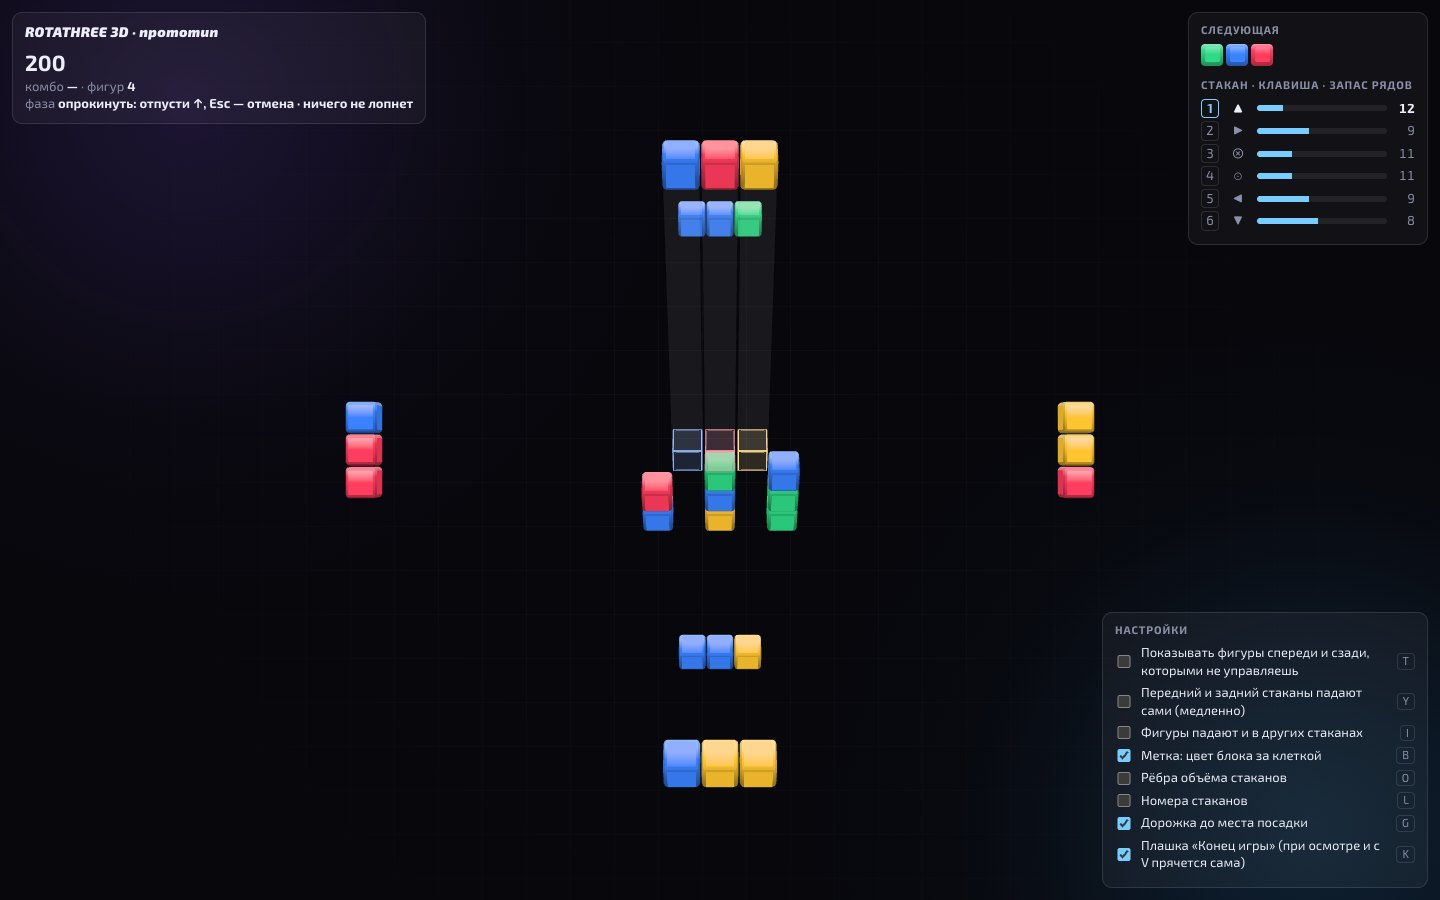
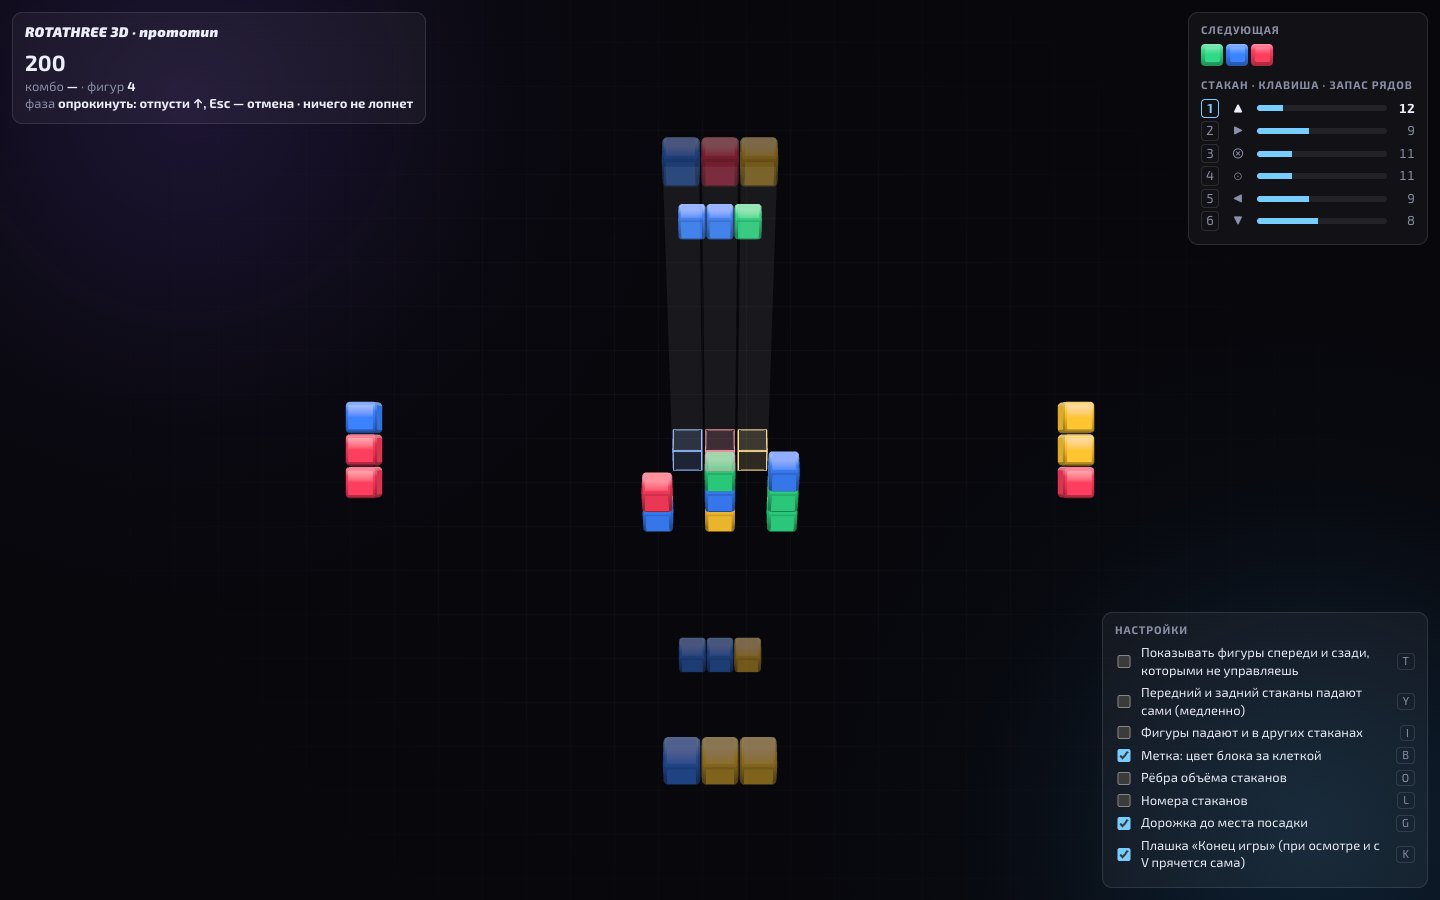
Fade sticks out of sight on a tip; keep sticks still on ← →
← and → turned the side sticks about themselves: the rule that keeps the
sticks on a tip's axis where the screen shows them also ran for turns in
the screen, laying each stick against the turn. It runs on tips only now;
on ← → every stick goes round with its glass, as in 2D.

On a tip, a stick the flat picture stops showing (the top one going in
front of the eye, the bottom one behind) fades out as the hub leans
instead of vanishing at the end, and one it starts showing fades in. The
blocks fading are drawn as see-through rounded tiles, far to near.

Changed region(s): [[0.4375, 0.1556, 0.5625, 0.28], [0.4375, 0.8089, 0.5625, 0.9022], [0.4688, 0.6844, 0.5312, 0.7467]]

diff --git a/webapp/proto3d/main.js b/webapp/proto3d/main.js
@@ -277,21 +277,23 @@ const ROUND = 0.13;
 // through the colour to dark at the bottom, around a flat face of the plain
 // colour with a soft shine across its top. Faces turned from the eye are a
 // little darker, so that the hub reads as solid while it is open.
-const solid = cubeLayer(new THREE.ShaderMaterial({
+const tileMaterial = (fading) => new THREE.ShaderMaterial({
   uniforms: sharedUniforms,
+  transparent: fading,
+  depthWrite: !fading,
   vertexShader: /* glsl */ `
     uniform vec3 screenUp;
     attribute vec3 aBase;
     attribute vec3 aLight;
     attribute vec3 aDark;
-    attribute vec2 aLook;
+    attribute vec3 aLook;
     varying vec3 vObjectNormal;
     varying vec3 vFaceNormal;
     varying float vUp;
     varying vec3 vBase;
     varying vec3 vLight;
     varying vec3 vDark;
-    varying vec2 vLook;
+    varying vec3 vLook;
     void main() {
       vBase = aBase;
       vLight = aLight;
@@ -316,7 +318,7 @@ const solid = cubeLayer(new THREE.ShaderMaterial({
     varying vec3 vBase;
     varying vec3 vLight;
     varying vec3 vDark;
-    varying vec2 vLook; // brightness, white flash
+    varying vec3 vLook; // brightness, white flash, opacity
     void main() {
       vec3 n = normalize(vObjectNormal);
       // 1 on the flat of a face, 0 on its rounded rim.
@@ -332,11 +334,16 @@ const solid = cubeLayer(new THREE.ShaderMaterial({
       vec3 colour = mix(rim, face, onFace);
       colour *= clamp(0.72 + 0.28 * toEye + 0.12 * vFaceNormal.y, 0.0, 1.0) * vLook.x;
       colour = mix(colour, vec3(1.0), vLook.y);
-      gl_FragColor = vec4(colour, 1.0);
+      gl_FragColor = vec4(colour, vLook.z);
       #include <tonemapping_fragment>
       #include <colorspace_fragment>
     }`,
-}), { aBase: 3, aLight: 3, aDark: 3, aLook: 2 }, 1, new RoundedBoxGeometry(1, 1, 1, 3, ROUND));
+});
+const TILE_ATTRIBUTES = { aBase: 3, aLight: 3, aDark: 3, aLook: 3 };
+const solid = cubeLayer(tileMaterial(false), TILE_ATTRIBUTES, 1, new RoundedBoxGeometry(1, 1, 1, 3, ROUND));
+/** Blocks fading in or out — sticks going out of sight or coming into it as
+ * the hub tips over — drawn see-through, far to near, after the others. */
+const fading = cubeLayer(tileMaterial(true), TILE_ATTRIBUTES, 2, new RoundedBoxGeometry(1, 1, 1, 3, ROUND));
 
 /** Outlines and see-through cubes: the landing spot, the aiming lane, the
  * sticks in front and behind. Far to near. */
@@ -375,8 +382,11 @@ const clear = cubeLayer(new THREE.ShaderMaterial({
  * while the picture is flat: the sticks in front of and behind the screen
  * are drawn over and under it. `nudge` shifts it on the screen, for the
  * small marks in the corners of cells. */
-function pushSolid(at, color, { brightness = 1, flash = 0, size = TILE, lift = 0, nudge = null, spin = null, frame = null } = {}) {
-  solid.items.push({ at: at.clone(), size: [size, size, size], lift, nudge, spin, frame, tone: TONES[color], brightness, flash });
+function pushSolid(at, color, { brightness = 1, flash = 0, size = TILE, lift = 0, nudge = null, spin = null, frame = null, alpha = 1 } = {}) {
+  if (alpha <= 0.01) return;
+  (alpha < 0.99 ? fading : solid).items.push({
+    at: at.clone(), size: [size, size, size], lift, nudge, spin, frame, tone: TONES[color], brightness, flash, alpha, depth: 0,
+  });
 }
 
 function pushClear(at, color, alpha, fill, edge, { size = [0.91, 0.91, 0.91], lift = 0, nudge = null, spin = null, frame = null } = {}) {
@@ -412,18 +422,25 @@ function turnOf(item) {
 }
 
 function flushLayers() {
-  solid.items.forEach((item, i) => {
-    // A size in the hub's frame: turn it the way the hub is turned.
-    scaleVector.set(...item.size);
-    matrix.compose(place(item), turnOf(item), scaleVector);
-    solid.mesh.setMatrixAt(i, matrix);
-    const { base, light, dark } = item.tone;
-    const { buffers } = solid;
-    buffers.aBase.setXYZ(i, base.r, base.g, base.b);
-    buffers.aLight.setXYZ(i, light.r, light.g, light.b);
-    buffers.aDark.setXYZ(i, dark.r, dark.g, dark.b);
-    buffers.aLook.setXY(i, item.brightness, item.flash);
-  });
+  for (const item of fading.items) {
+    place(item);
+    item.depth = item.at.distanceToSquared(camera.position);
+  }
+  fading.items.sort((a, b) => b.depth - a.depth);
+  for (const layer of [solid, fading]) {
+    layer.items.forEach((item, i) => {
+      // A size in the hub's frame: turn it the way the hub is turned.
+      scaleVector.set(...item.size);
+      matrix.compose(layer === fading ? item.at : place(item), turnOf(item), scaleVector);
+      layer.mesh.setMatrixAt(i, matrix);
+      const { base, light, dark } = item.tone;
+      const { buffers } = layer;
+      buffers.aBase.setXYZ(i, base.r, base.g, base.b);
+      buffers.aLight.setXYZ(i, light.r, light.g, light.b);
+      buffers.aDark.setXYZ(i, dark.r, dark.g, dark.b);
+      buffers.aLook.setXYZ(i, item.brightness, item.flash, item.alpha);
+    });
+  }
   for (const item of clear.items) {
     place(item);
     item.depth = item.at.distanceToSquared(camera.position);
@@ -436,7 +453,7 @@ function flushLayers() {
     clear.buffers.aColor.setXYZ(i, item.color.r, item.color.g, item.color.b);
     clear.buffers.aLook.setXYZ(i, item.alpha, item.fill, item.edge);
   });
-  for (const layer of [solid, clear]) {
+  for (const layer of [solid, fading, clear]) {
     layer.mesh.count = layer.items.length;
     layer.mesh.instanceMatrix.needsUpdate = true;
     for (const buffer of Object.values(layer.buffers)) buffer.needsUpdate = true;
@@ -483,7 +500,7 @@ const turnFrom = new THREE.Quaternion();
 const turned = new THREE.Quaternion();
 /** The turn under way: `tilt` when it leans the hub over rather than turning
  * the cross in the screen. */
-const turn = { t: 1, tilt: false, carry: false };
+const turn = { t: 1, tilt: false, carry: false, steeredFrom: 0 };
 /** 0 when the picture is the game, 1 while V is held. */
 let peek = 0;
 const SCENE_RIGHT = new THREE.Vector3(1, 0, 0);
@@ -530,6 +547,15 @@ function transition(axis, { carry = false } = {}) {
   turn.t = 0;
   turn.tilt = axis !== SCENE_TOWARD;
   turn.carry = carry && turn.tilt;
+  turn.steeredFrom = preview?.result?.view.active ?? game.active;
+}
+
+/** Whether the flat picture shows the stick of `side` with the hub turned
+ * by `q` and `steered` the glass steered: always for a glass across the
+ * screen; in front or behind only when steered, or asked for, or paused. */
+function shownFlat(side, q, steered) {
+  const across = Math.abs(new THREE.Vector3(...normalOf(side)).applyQuaternion(q).z) < 0.5;
+  return across || side === steered || options.depthSticks || options.paused;
 }
 
 /** Where the turn under way ends. */
@@ -620,8 +646,9 @@ function commitPreview(code) {
 
 function cancelPreview() {
   if (!preview) return;
-  preview = null;
+  // From the preview's side, where its top glass was the one steered.
   transition(SCENE_RIGHT, { carry: true });
+  preview = null;
 }
 
 /** A number key: a glass around the cross is turned to the top, as in the
@@ -850,14 +877,26 @@ function staysPut(side, from, to) {
  * be seen, an empty outline and a dark hole if it will hide. */
 function drawSticks(source, q, sticks, { marks = true, solid = false } = {}) {
   const open = solid || !flat();
+  const carried = carrying();
+  const steeredTo = sideOfNormal(dataIn(goalQ(), SCENE_UP));
   for (const { piece, at, spin, base } of sticks) {
     const steered = piece.side === source.active;
     // While a tip carries the sticks, those on its axis stay on the screen
-    // as they were, drawn in the hub's frame from before the tip.
-    const frame = carrying() && staysPut(piece.side, turnFrom, goalQ()) ? tiltFrom : null;
+    // as they were, drawn in the hub's frame from before the tip; one that
+    // the flat picture shows on one side of the tip and not on the other
+    // fades out (going in front of the eye or behind) or in as it turns.
+    const frame = carried && staysPut(piece.side, turnFrom, goalQ()) ? tiltFrom : null;
+    let alpha = 1;
+    if (carried) {
+      const before = shownFlat(piece.side, turnFrom, turn.steeredFrom);
+      const after = shownFlat(piece.side, goalQ(), steeredTo);
+      const e = ease(turn.t);
+      if (before && !after) alpha = 1 - e;
+      else if (!before && after) alpha = e;
+    }
     const cell = (i) => at.clone().addScaledVector(base.clone().applyQuaternion(spin), i - 1);
     if (open || source.inPlane(piece.side)) {
-      piece.colors.forEach((color, i) => pushSolid(cell(i), color, { spin, frame }));
+      piece.colors.forEach((color, i) => pushSolid(cell(i), color, { spin, frame, alpha }));
       continue;
     }
     if (!steered && !options.depthSticks && !options.paused) continue;

diff --git a/webapp/proto3d/rules.js b/webapp/proto3d/rules.js
@@ -692,18 +692,21 @@ export class Game {
    * one in front or behind — and backs off towards its far end if it no
    * longer fits; failing that it starts again from there.
    *
-   * A glass that lies across the screen both before and after the tip (on
-   * its axis: the left and right ones for ↑/↓) keeps its stick where the
-   * screen showed it, lying the same way on the screen, so that it need not
-   * turn at all. `previous` is the plane and frame looked along before. */
+   * After a tip, a glass that lies across the screen both before and after
+   * it (on its axis: the left and right ones for ↑/↓) keeps its stick where
+   * the screen showed it, lying the same way on the screen, so that it need
+   * not turn at all. A turn in the screen (← →) moves no stick: each goes
+   * round with its glass, as in 2D. `previous` is the plane and frame looked
+   * along before. */
   reseat(previous = null) {
     const k = this.plane.findIndex((v) => v !== 0);
     const middle = this.middle;
+    const tipped = previous !== null && dot(previous.plane, this.plane) === 0;
     for (const piece of this.pieces.values()) {
       const n = normalOf(piece.side);
       let dir = piece.dir;
       let pivot = [...piece.pivot];
-      if (previous && this.inPlane(piece.side) && dot(n, previous.plane) === 0) {
+      if (tipped && this.inPlane(piece.side) && dot(n, previous.plane) === 0) {
         const { right, up } = previous.viewFrame;
         const at = pivot.map((v) => v - middle);
         const [sx, sy] = [dot(at, right), dot(at, up)];

diff --git a/webapp/proto3d/NOTES.md b/webapp/proto3d/NOTES.md
@@ -104,7 +104,10 @@ After review the rules follow what the screen shows.
   as they are whenever the hub is open (`08`) — all but those of the glasses
   on the tip's axis (left and right for ↑/↓): they stay on the screen as they
   are, upright, and the rules lay them in just those cells on the new side,
-  so they never turn at all. The preview shows them where
+  so they never turn at all. A stick the flat picture stops showing — the top
+  one going in front of the eye, the bottom one behind — fades out as the hub
+  leans, and one it starts showing fades in. ← → move no stick: each goes
+  round with its glass, as in 2D. The preview shows them where
   the tip lays them (`09`); a stick laid somewhere else slides and turns there
   once the hub has landed, rather than jumping. (A wave of cubes each rolling over to its
   new colour was tried in its place and dropped on review: it read as window
